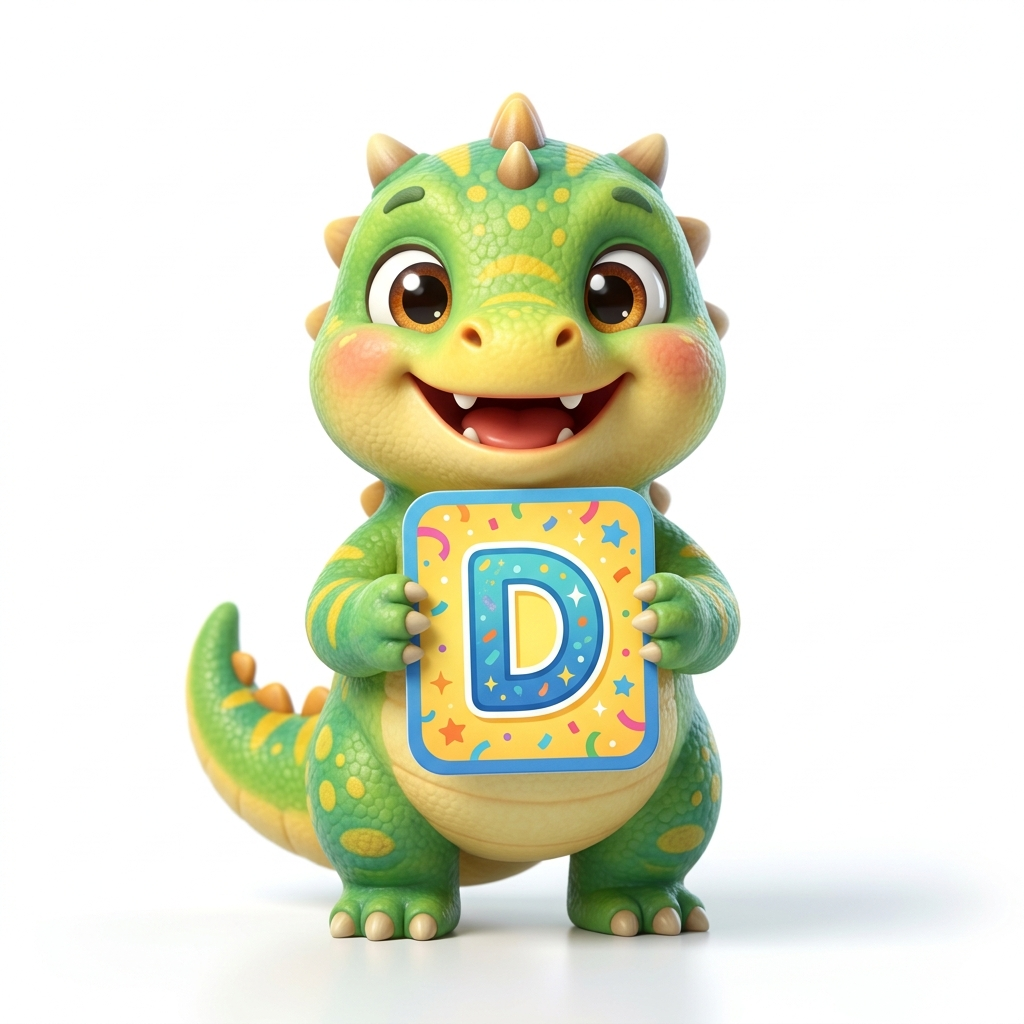
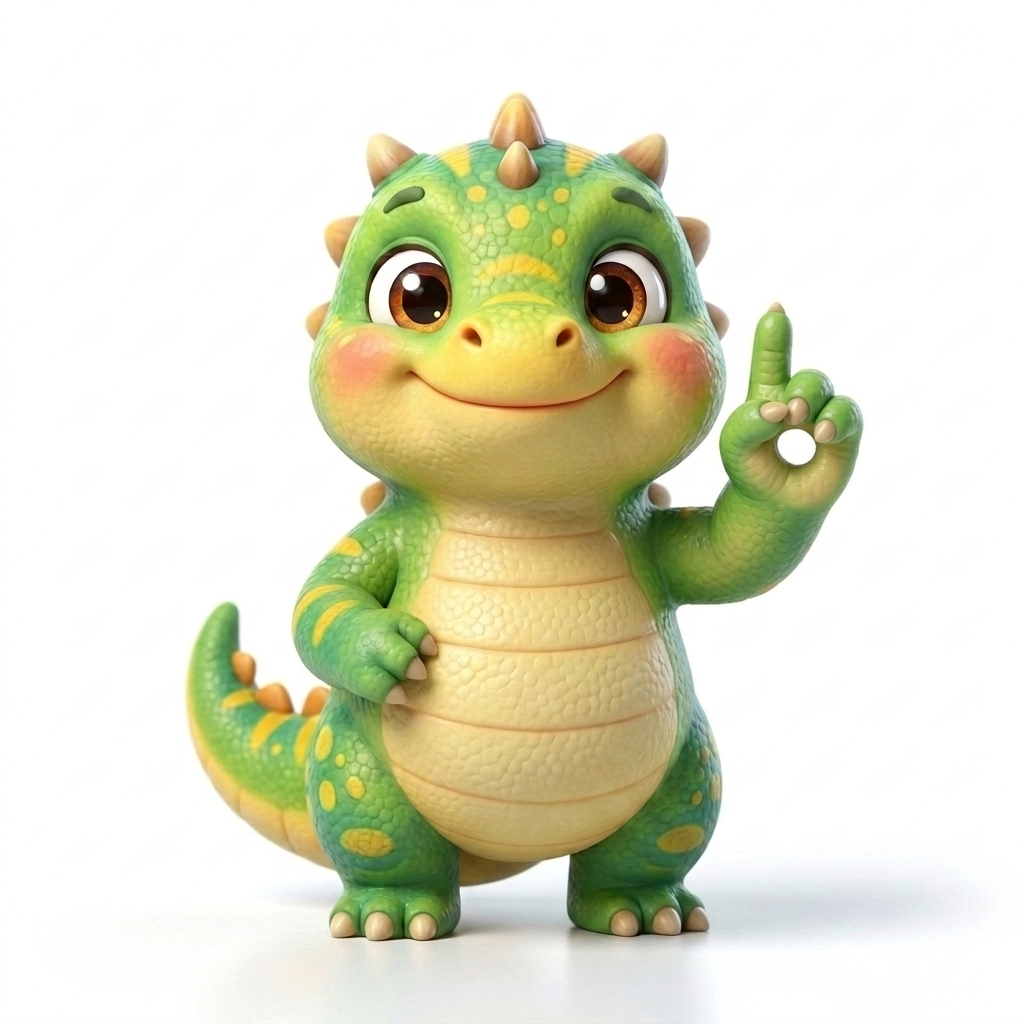
correcao do dedo da arara e testes com o dino

Changed region(s): [[0.2812, 0.2812, 0.8438, 0.7812]]

diff --git a/src/utils/animalMascots.ts b/src/utils/animalMascots.ts
@@ -33,15 +33,15 @@ export const ANIMAL_MASCOTS: Record<string, AnimalMascot> = {
   },
   B: {
     letter: "B",
-    animalName: "Coelhinho Theo",
-    species: "Coelho",
-    emoji: "🐰",
+    animalName: "Borboletinha Mimi",
+    species: "Borboleta",
+    emoji: "🦋",
     image: mascotB,
     tone: "bg-sky",
     badgeBg: "from-sky-400 to-blue-600",
     pawDescription: "Quatro dedos estendidos para cima e polegar dobrado na palma.",
-    librasExplanation: "O Coelhinho Theo ergue os 4 dedinhos juntos e dobra o polegar na frente da palma para a Letra B!",
-    cheerMessage: "Saltando de alegria! O Coelhinho Theo manda os parabéns pela Letra B!",
+    librasExplanation: "A Borboletinha Mimi ergue os 4 dedinhos juntos e dobra o polegar na frente da palma para a Letra B!",
+    cheerMessage: "Voando alto! A Borboletinha Mimi manda os parabéns pela Letra B!",
   },
   C: {
     letter: "C",

diff --git a/src/routes/licao.tsx b/src/routes/licao.tsx
@@ -172,10 +172,10 @@ export const LESSONS_DATA: Record<number, LessonNodeData> = {
         letter: "B",
         targetLetter: "B",
         sign: "4 dedos eretos e polegar recolhido",
-        emoji: "🐰",
-        animalEmoji: "🐰",
-        animalName: "Coelhinho Theo",
-        species: "Coelho",
+        emoji: "🦋",
+        animalEmoji: "🦋",
+        animalName: "Borboletinha Mimi",
+        species: "Borboleta",
         tone: "bg-sky",
         signTip: "4 dedos unidos apontados para cima.",
         handShapeDesc: "Mão em 'B'",
